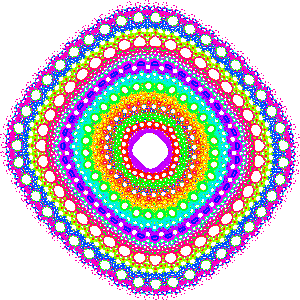
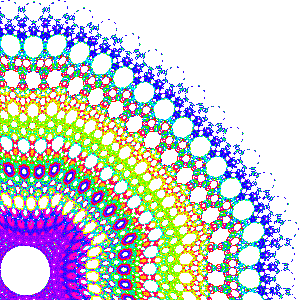
hopalong -q1 option to render only the 1st quadrant of the orbit

diff --git a/hopalong/transform_test.go b/hopalong/transform_test.go
@@ -7,17 +7,44 @@ func TestTransform(t *testing.T) {
 	b.enclose(-4, -1)
 	b.enclose(4, 3)
 	t.Log(*b)
-	tr := b.transform(800, 600)
+	tr := b.transform(800, 600, false) // all quadrants
 	t.Log(*tr.x, *tr.y)
 	want(t, tr, -4, -1, 0, 0)
-	want(t, tr, 4, 3, 800, 400)
+	want(t, tr, 3.99, 2.99, 799, 399)
 	want(t, tr, 0, 0, 400, 100)
+}
+
+func TestTransformQ1only(t *testing.T) {
+	b := &box{}
+	b.enclose(-4, -1)
+	b.enclose(4, 3)
+	t.Log(*b)
+	tr := b.transform(800, 600, true) // only quadrant 1 (top left)
+	t.Log(*tr.x, *tr.y)
+	wantnok(t, tr, -4, -1, -800, -200)
+	want(t, tr, 3.99, 0, 798, 0)
+	want(t, tr, 0, 2.99, 0, 598)
+	want(t, tr, 0, 0, 0, 0)
 }
 
 func want(t *testing.T, tr *transform, x, y float64, wa, wb int) {
 	t.Helper()
-	a, b := tr.tr(x, y)
-	if a != wa || b != wb {
-		t.Errorf("tr(%v,%v) want (%v, %v), got (%v, %v)", x, y, wa, wb, a, b)
+	a, b, ok := tr.tr(x, y)
+	if !ok {
+		t.Errorf("tr(%v,%v) want (%v, %v), got (%v, %v) and not ok", x, y, wa, wb, a, b)
+	}
+	if ok && (a != wa || b != wb) {
+		t.Errorf("tr(%v,%v) want (%v, %v), got (%v, %v) with ok", x, y, wa, wb, a, b)
+	}
+}
+
+func wantnok(t *testing.T, tr *transform, x, y float64, wa, wb int) {
+	t.Helper()
+	a, b, ok := tr.tr(x, y)
+	if ok {
+		t.Errorf("tr(%v,%v) want (%v, %v), got (%v, %v) and ok", x, y, wa, wb, a, b)
+	}
+	if !ok && (a != wa || b != wb) {
+		t.Errorf("tr(%v,%v) want (%v, %v), got (%v, %v) with ok", x, y, wa, wb, a, b)
 	}
 }

diff --git a/hopalong/hopimage.go b/hopalong/hopimage.go
@@ -9,16 +9,16 @@ import (
 	"github.com/usedbytes/hsv"
 )
 
-func hopPNG(w io.Writer, width, height, rounds, nextColor int) {
-	img := hopimg(width, height, rounds, nextColor)
+func hopPNG(w io.Writer, width, height, rounds, nextColor int, quadrant1 bool) {
+	img := hopimg(width, height, rounds, nextColor, quadrant1)
 	png.Encode(w, img)
 }
 
-func hopimg(width, height, rounds, nextColor int) *image.NRGBA {
+func hopimg(width, height, rounds, nextColor int, quadrant1 bool) *image.NRGBA {
 	h := &hop{}
 	h.randomizeABC()
 	h.bounds(rounds)
-	t := h.transform(width, height)
+	t := h.transform(width, height, quadrant1)
 	h.reset()
 
 	rect := image.Rect(0, 0, width, height)
@@ -34,8 +34,10 @@ func hopimg(width, height, rounds, nextColor int) *image.NRGBA {
 			ci++
 			c = hsv.HSVColor{H: uint16(ci % 360), S: 255, V: 255}
 		}
-		x, y := t.tr(h.x, h.y)
-		img.Set(x, y, c)
+		x, y, ok := t.tr(h.x, h.y)
+		if ok {
+			img.Set(x, height-y-1, c)
+		}
 	})
 
 	return img

diff --git a/hopalong/main.go b/hopalong/main.go
@@ -1,6 +1,6 @@
 package main
 
-// go get && go build && ./hopalong -w 300 -h 300 -o x.png && rm hopalong
+// go get && go build && ./hopalong -w 300 -h 300 -q1 -o x.png && rm hopalong
 
 import (
 	"flag"
@@ -15,6 +15,7 @@ var (
 	flagRounds    = flag.Int("n", 5000000, "number of plotted orbit pixels")
 	flagNextColor = flag.Int("c", 1000, "change color every this number of iterations")
 	flagFile      = flag.String("o", "", "output the png image to this `file`, if missing or -, stdout is used")
+	flagQ1        = flag.Bool("q1", false, "render only the top left quadrant pixels")
 )
 
 func main() {
@@ -35,5 +36,5 @@ func main() {
 		defer f.Close()
 		o = f
 	}
-	hopPNG(o, *flagWidth, *flagHeight, *flagRounds, *flagNextColor)
+	hopPNG(o, *flagWidth, *flagHeight, *flagRounds, *flagNextColor, *flagQ1)
 }

diff --git a/hopalong/line.go b/hopalong/line.go
@@ -11,10 +11,19 @@ func (l *line) enclose(val float64) {
 	l.max = math.Max(l.max, val)
 }
 
-func (l *line) linetransform(w int) *linetransform {
-	// create a linear transform that maps min to 0 and max to w
+func (l *line) linetransform(w int, quadrant1 bool) *linetransform {
+	// quadrant1=true;  create a linear transform that maps 0 to 0 and max to w
+	if quadrant1 {
+		return &linetransform{
+			offset: 0,
+			factor: float64(w) / l.max,
+			max:    w,
+		}
+	}
+	// quadrant1=false; create a linear transform that maps min to 0 and max to w
 	return &linetransform{
 		offset: -l.min,
 		factor: float64(w) / (l.max - l.min),
+		max:    w,
 	}
 }

diff --git a/hopalong/box.go b/hopalong/box.go
@@ -9,10 +9,10 @@ func (b *box) enclose(x, y float64) {
 	b.y.enclose(y)
 }
 
-func (b *box) transform(w, h int) *transform {
+func (b *box) transform(w, h int, quadrant1 bool) *transform {
 	t := &transform{
-		x: b.x.linetransform(w),
-		y: b.y.linetransform(h),
+		x: b.x.linetransform(w, quadrant1),
+		y: b.y.linetransform(h, quadrant1),
 	}
 	t.keepAspectRatio()
 	return t

diff --git a/hopalong/linetransform.go b/hopalong/linetransform.go
@@ -4,8 +4,10 @@ import "math"
 
 type linetransform struct {
 	factor, offset float64
+	max            int
 }
 
-func (t *linetransform) tr(val float64) int {
-	return int(math.Round((val + t.offset) * t.factor))
+func (t *linetransform) tr(val float64) (int, bool) {
+	i := int(math.Floor((val + t.offset) * t.factor))
+	return i, 0<=i && i<t.max
 }

diff --git a/hopalong/transform.go b/hopalong/transform.go
@@ -12,6 +12,8 @@ func (t *transform) keepAspectRatio() {
 	t.y.factor = f
 }
 
-func (t *transform) tr(x, y float64) (int, int) {
-	return t.x.tr(x), t.y.tr(y)
+func (t *transform) tr(x, y float64) (int, int, bool) {
+	ix, okx := t.x.tr(x) 
+	iy, oky := t.y.tr(y) 
+	return ix, iy, okx && oky
 }
